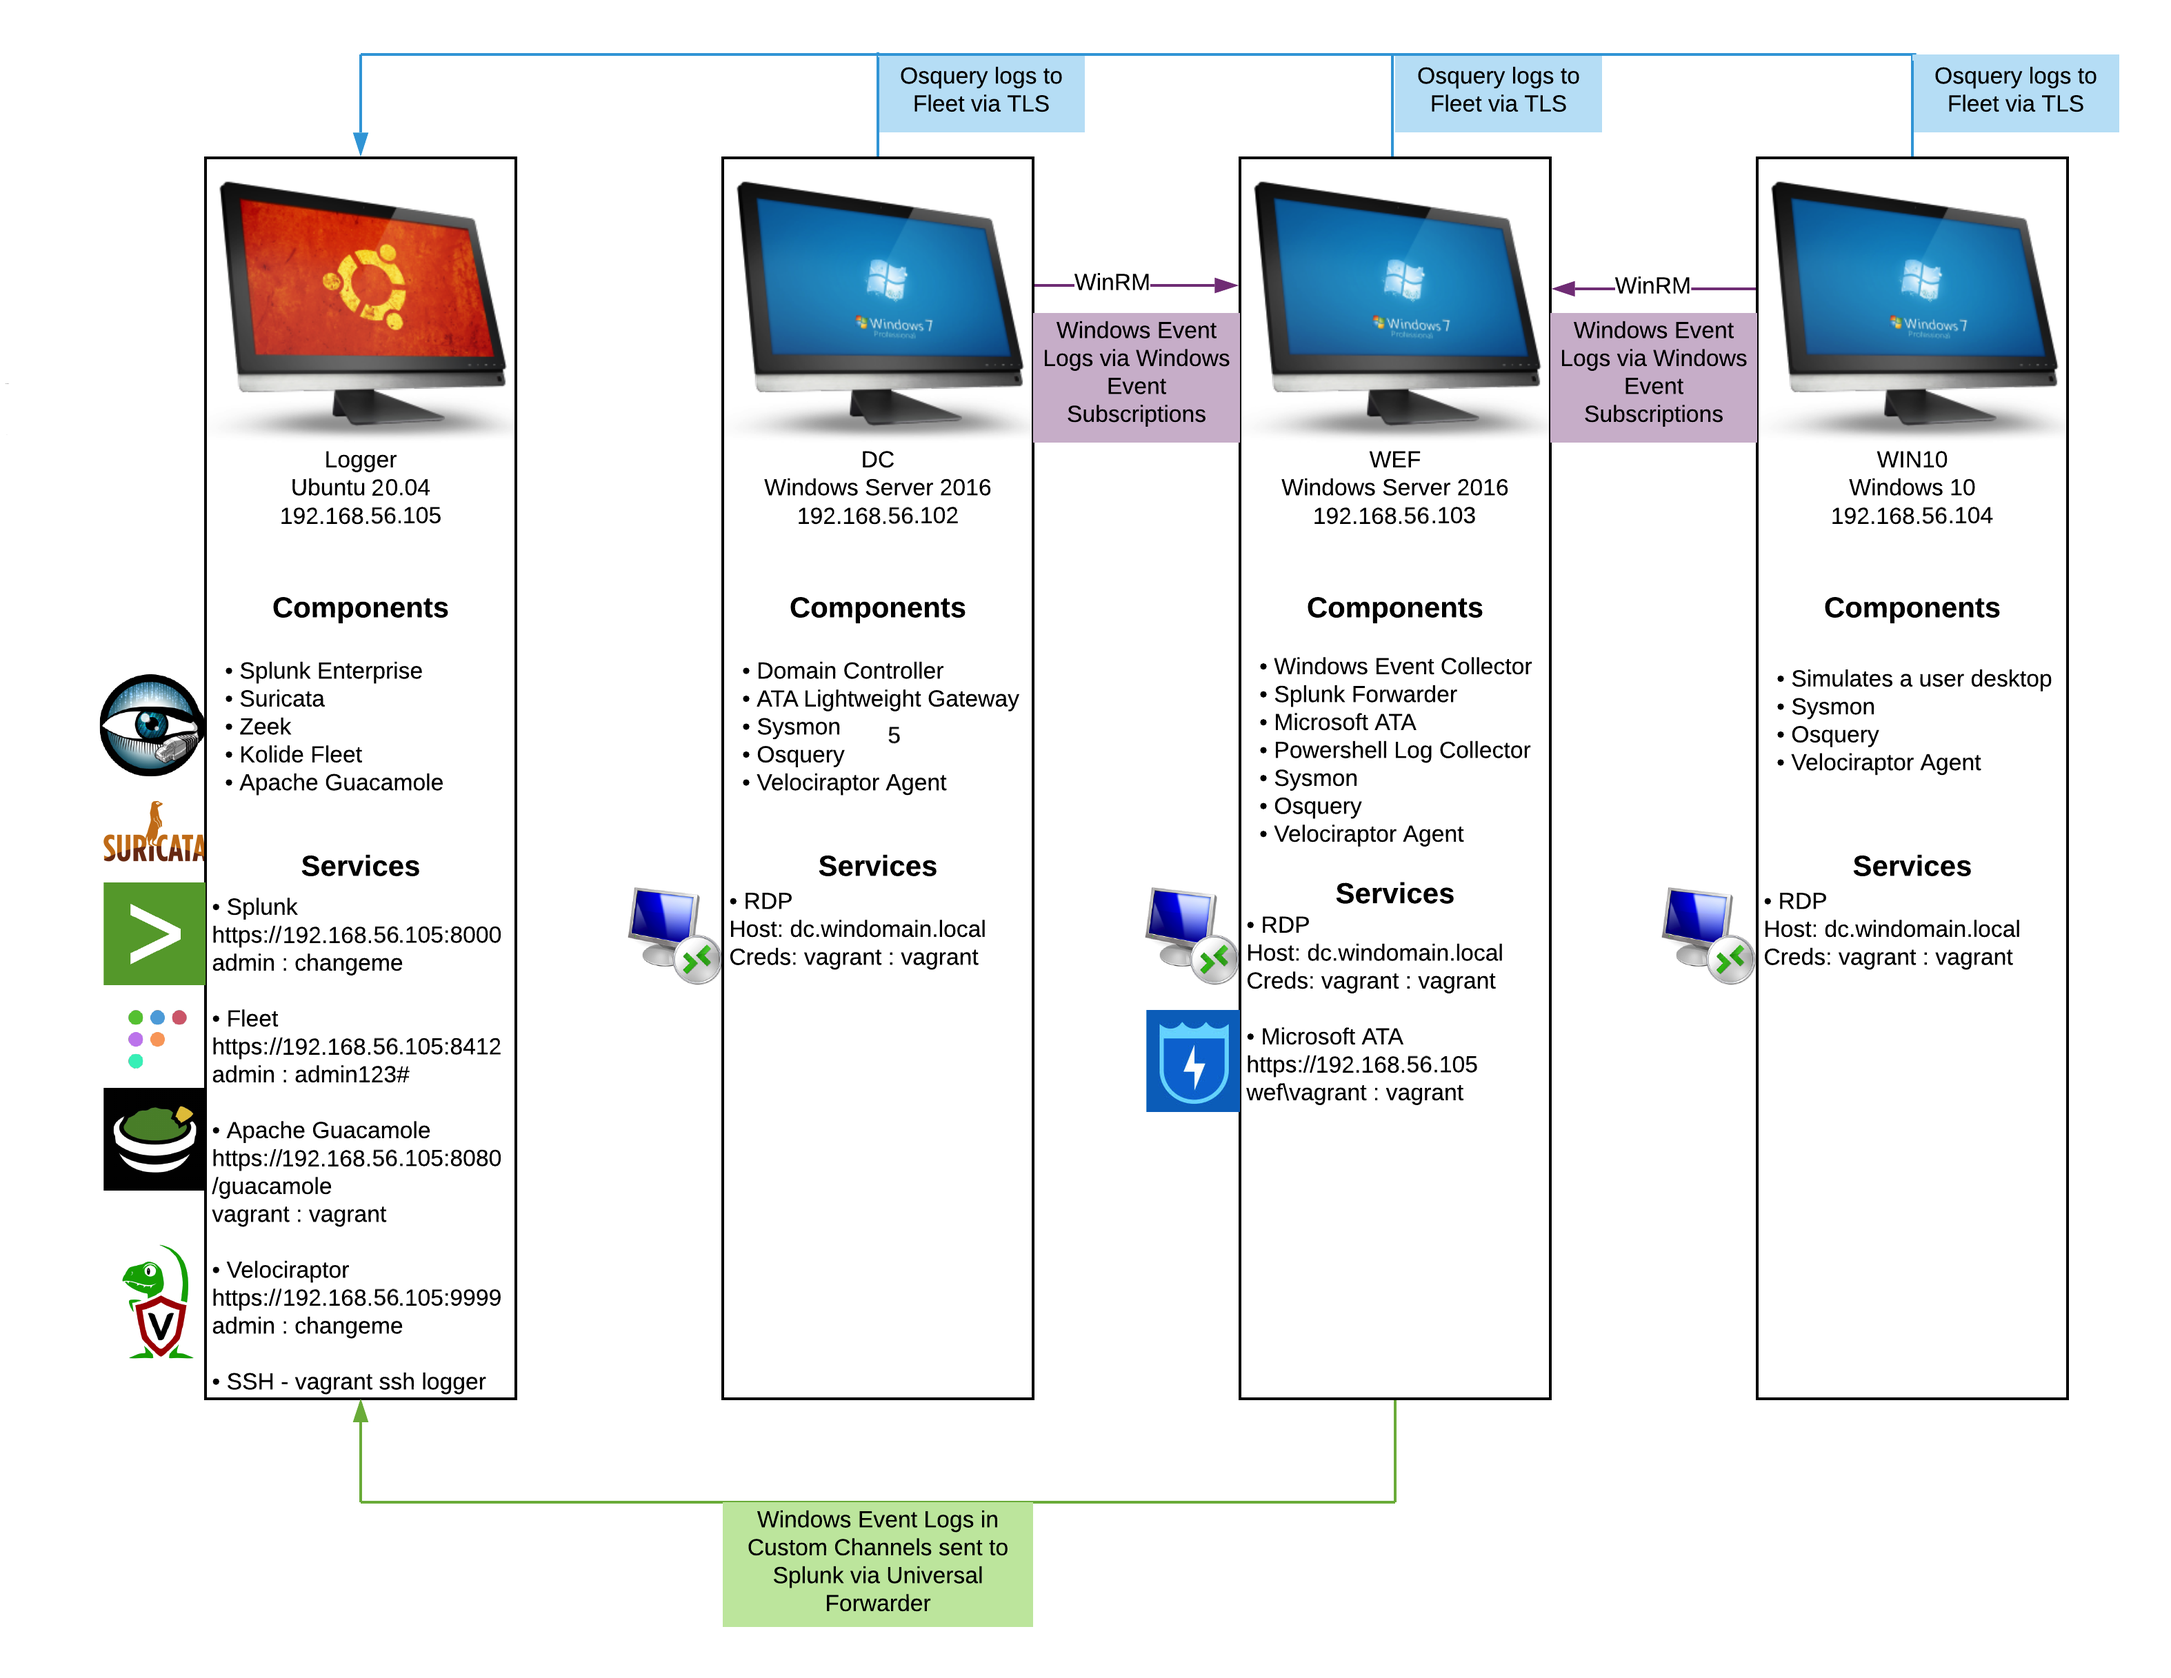
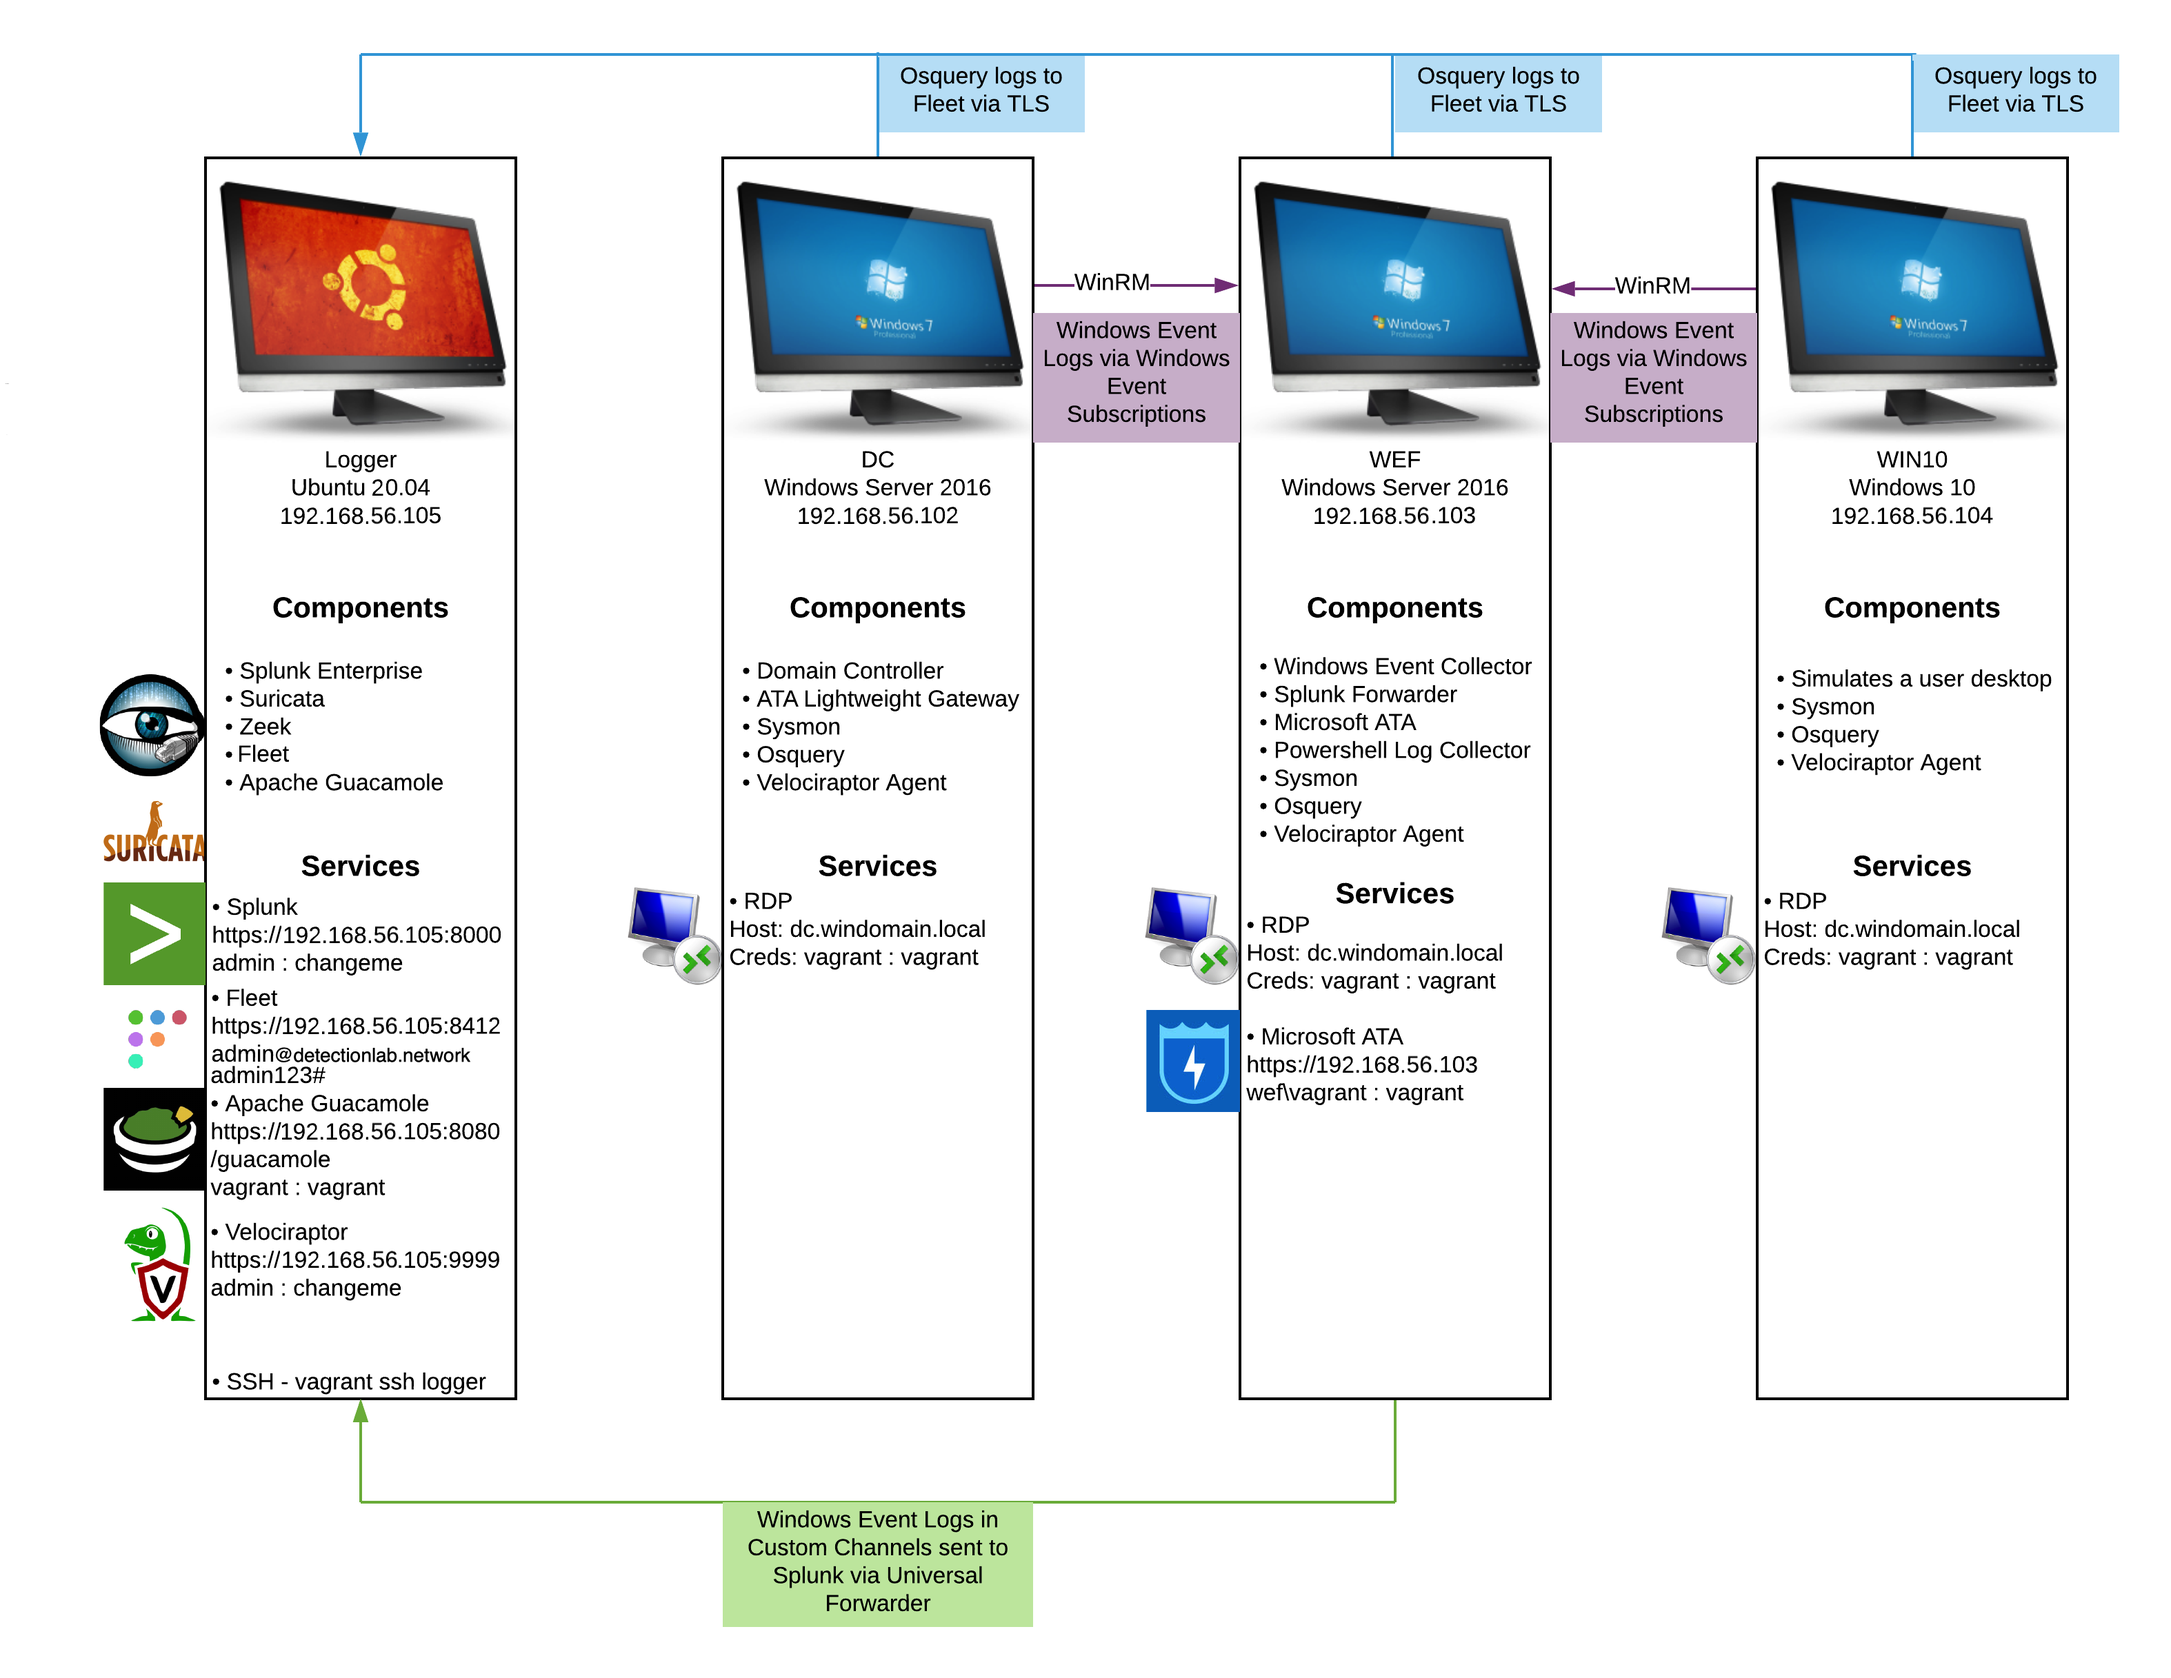
Update

Changed region(s): [[0.0623, 0.5933, 0.249, 0.8118], [0.1245, 0.4371, 0.1557, 0.4684]]

diff --git a/content/customization/exchange-server.md b/content/customization/exchange-server.md
@@ -8,46 +8,7 @@ weight: 5
 Due to the [recent vulnerabilities in Microsoft Exchange](https://msrc-blog.microsoft.com/2021/03/05/microsoft-exchange-server-vulnerabilities-mitigations-march-2021/), I have decided to add an optional Exchange server to the DetectionLab build. Exchange is complicated to install, takes a long time, and is quite resource intensive, therefore it's not an ideal candidate for DetectionLab. However, I think it's important that defenders have quick and easy access to an Exchange environment to better understand the impact of these vulnerabilities. Here's how you can add the Exchange server to your DetectionLab deployment:
 
 ## AWS
-An AMI with Exchange pre-installed is provided. I have included the Exchange functionality as a Terraform module. You will have to make two minor changes to Terraform files to enable the provisioning of Exchange since it is disabled by default:
-
-1. In `AWS/Terraform/exchange.tf`, remove the two block comment lines: `/*` and `*/` and save the file.
-
-Diff: 
-```diff
-
-## Remove the block comment to enable the creation of the Exchange server
-- /*
-module "exchange" {
-  source = "./modules/exchange"
-  region = var.region
-  subnet_id = aws_subnet.default.id
-  security_group_id = [aws_security_group.windows.id]
-  instance_name_prefix = var.instance_name_prefix
-  custom-tags = var.custom-tags
-  exchange_ami = var.exchange_ami
-}
-- */
-```
-2. In `AWS/Terraform/outputs.tf`, remove the leading line comments (`#`) on the exchange outputs:
-
-Diff:
-```diff
-- #output "exchange_public_ip" {
-- #  value = module.exchange.exchange_public_ip
-- #}
-+ output "exchange_public_ip" {
-+   value = module.exchange.exchange_public_ip
-+ }
-
-- #output "exchange_url" {
-- #  value = module.exchange.exchange_url
-- #}
-+ output "exchange_url" {
-+   value = module.exchange.exchange_url
-+ }
-```
-
-By making these changes, you "enable" the Exchange module and its associated outputs. To disable it, simply reverse the changes in those two files.
+This feature has unfortunately been deprecated due to the difficulty and instability with creating the AWS AMI.
 
 ---
 
@@ -60,8 +21,12 @@ Installing Exchange on Vagrant is still under development and isn't working reli
 2. cd into `DetectionLab/Vagrant/Exchange`
 3. Run `vagrant up exchange`
 
+--
+
 ## Azure
-Not yet implemented. The Ansible code needs to be improved.
+Implemented via Ansible
+
+--
 
 ## ESXi
 Still under testing and development.

diff --git a/content/deployment/proxmox.md b/content/deployment/proxmox.md
@@ -23,7 +23,7 @@ I do not officially support or troubleshoot DetectionLab issues using the Proxmo
 3. The Proxmox Terraform Provider by Telmate https://github.com/Telmate/terraform-provider-proxmox is required, but will be installed automatically during a later step. For additional customization, the documentation for the provider is here: https://registry.terraform.io/providers/Telmate/proxmox/latest/docs/resources/vm_qemu.  
 4. Your Proxmox instance must have at least two separate networks connected by bridges. First network (vmbr0) that is accessible from your current machine and has internet connectivity and a second HostOnly network (vmbr1) to allow the VMs to communicate over a private network. The network connected to vmbr0 that provides DHCP and internet connectivity must also be reachable from the host that is running Terraform - ensure your firewall is configured to allow this.  
 5. Install Ansible and pywinrm via **pip3 install ansible pywinrm --user** or by creating and using a virtual environment.  
-6. Packer v1.6.3+ must be installed and in your PATH  
+6. Packer v1.7.0+ must be installed and in your PATH  
 7. sshpass must be installed to allow Ansible to use password login. On MacOS, install via brew install hudochenkov/sshpass/sshpass as brew install sshpass does not allow it to be installed.
 
 ### Steps

diff --git a/content/deployment/esxi.md b/content/deployment/esxi.md
@@ -24,7 +24,7 @@ An additional step-by-step guide can be found here which also details the ESXi i
     * Instructions for those steps are here: https://nickcharlton.net/posts/using-packer-esxi-6.html
     * Alternatively, you can install the VIB file from https://github.com/sukster/ESXi-Packer-VNC which will automatically open the VNC ports on the ESXi firewall.
 5. [Install Ansible](https://docs.ansible.com/ansible/latest/installation_guide/intro_installation.html) and pywinrm via `pip3 install ansible pywinrm --user` or by creating and using a virtual environment.
-6. [Packer](https://www.packer.io/downloads) v1.6.3+ must be installed and in your PATH
+6. [Packer](https://www.packer.io/downloads) v1.7.0+ must be installed and in your PATH
 7. [sshpass](https://linux.die.net/man/1/sshpass) must be installed to allow Ansible to use password login. On MacOS, install via `brew install hudochenkov/sshpass/sshpass` as `brew install sshpass` does not allow it to be installed.
 
 ## Steps

diff --git a/content/introduction/infoandcreds.md b/content/introduction/infoandcreds.md
@@ -9,7 +9,7 @@ weight: 2
 
 * **Domain Name:** windomain.local
 * **Admininstrator login:** vagrant:vagrant
-* **Fleet login:** https://192.168.56.105:8412 - admin:admin123#
+* **Fleet login:** https://192.168.56.105:8412 - admin@detectionlab.network:admin123#
 * **Splunk login:** https://192.168.56.105:8000 - admin:changeme
 * **MS ATA login:** https://192.168.56.103 - wef\vagrant:vagrant
 * **Guacamole login:** http://192.168.56.105:8080/guacamole - vagrant:vagrant

diff --git a/content/customization/feature_requests.md b/content/customization/feature_requests.md
@@ -16,3 +16,4 @@ I will not personally be undertaking the implementation of these features, but I
 - [ ] [Configurable domain name & passwords](https://github.com/clong/DetectionLab/issues/480)
 - [ ] [VMCloak for disguising VMs](https://github.com/clong/DetectionLab/issues/643)
 - [ ] [Custom Networks/Subnets](https://github.com/clong/DetectionLab/issues/602)
+- [ ] [Use DNS names instead of IP addresses in scripts](https://github.com/clong/DetectionLab/issues/747)
